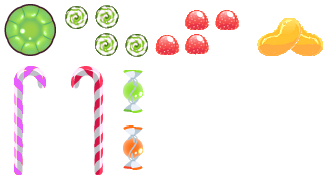
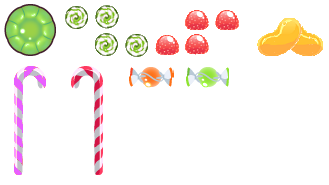
controlll

Changed region(s): [[0.3647, 0.3514, 0.6991, 0.6216], [0.3647, 0.6757, 0.4559, 0.9189]]

diff --git a/js/candyrain.js b/js/candyrain.js
@@ -21,8 +21,10 @@ var blockStage;
 var pointStage;
 var blockSpeed;
 var score = 0;
+var level;
 var points;
-
+var levelText;
+var eventWhich=0;
 
 // Initialization
 $(document).ready(function() {
@@ -34,7 +36,7 @@ $(document).ready(function() {
 	createPointStage();
 	
 	blockSpeed = 24;
-	
+	level = 1;
 	setNextBlock();
 	board.setFallingBlock(nextBlock);
 	setNextBlock();
@@ -53,10 +55,10 @@ var createBlockStage = function(){
 	blockStage.x = 300;
 	blockStage.y = 200;
 	var background = new createjs.Shape();
-	background.graphics.beginFill("#FFDE4D").drawRect(0, 0, 100, 140);
+	background.graphics.beginFill("#FFDE4D").drawRect(0, 0, 150, 140);
 	blockStage.addChild(background);
 	
-	var text = new createjs.Text("Next Block", "20px Arial", "#ff7700");
+	var text = new createjs.Text("Next Candy", "20px Arial", "#ff7700");
 	blockStage.addChild(text);
 	stage.addChild(blockStage);
 };
@@ -66,20 +68,37 @@ var createPointStage = function() {
 	pointStage.x = 300;
 	pointStage.y = 400;
 	var background = new createjs.Shape();
-	background.graphics.beginFill("#FFDE4D").drawRect(0, 0, 100, 140);
+	background.graphics.beginFill("#FFDE4D").drawRect(0, 0, 150, 140);
 	pointStage.addChild(background);
 	var text = new createjs.Text("Points", "20px Times New Roman", "#ff7700");
 	points = new createjs.Text("0", "20px Times New Roman", "#ff7700");
 	points.y = 30;
 	pointStage.addChild(points);
 	pointStage.addChild(text);
+	
+	//level:
+	var ltext = new createjs.Text("Level", "20px Times New Roman", "#ff7700");
+	ltext.y = 60;
+	levelText = new createjs.Text("1", "20px Times New Roman", "#ff7700");
+	levelText.y = 90;
+	pointStage.addChild(levelText);
+	pointStage.addChild(ltext);
+	
 	stage.addChild(pointStage);
 }
 
 
 // Handle input
 var handleInput = function(event) {
-	switch(event.which) {
+	eventWhich = event.which;
+};
+
+// Update function
+var update = function(event) {
+	if(createjs.Ticker.getTicks() % blockSpeed == 0){
+		moveDown();
+	}
+	switch(eventWhich) {
 		case KEYCODE_LEFTARROW:
 			moveLeft();
 			break;
@@ -101,13 +120,7 @@ var handleInput = function(event) {
 			rotate(false);
 			break;
 	}
-};
-
-// Update function
-var update = function(event) {
-	if(createjs.Ticker.getTicks() % blockSpeed == 0){
-		moveDown();
-	}
+	eventWhich = 0;
 	stage.update();
 };
 
@@ -156,8 +169,9 @@ var moveDown = function() {
 		
 		// if collided move back
 		board.fallingBlock.move(0, -cr.Board.cellSize);
-	}
-	
+		
+	}	
+		
 	// hit ground or other blocks so place the falling block and set the next one to fall
 	board.placeFallingBlock();
 	//score += board.checkLines();
@@ -175,10 +189,17 @@ var moveDown = function() {
 			score += 1200;
 			break;
 	}
+	if(score > (5000 * level)) {
+		level++;
+		levelText.text = level;
+		blockSpeed = Math.floor(Math.max((blockSpeed - (blockSpeed/12)), 8));
+		console.log(blockSpeed);
+	}
 	
 	board.setFallingBlock(nextBlock);
 	setNextBlock();
 	points.text = "" + score;
+
 };
 
 // Move the falling block to the left

diff --git a/js/Blocks.js b/js/Blocks.js
@@ -12,16 +12,16 @@ var IBlock = function() {
 	
 	var image2 = new createjs.Bitmap();
 	image2.image = cr.Board.blockImages;
-	image2.sourceRect = new createjs.Rectangle(120,90,30,30);
+	image2.sourceRect = new createjs.Rectangle(150,60,30,30);
 
 	
 	var image3 = new createjs.Bitmap();
 	image3.image = cr.Board.blockImages;
-	image3.sourceRect = new createjs.Rectangle(120,120,30,30);
+	image3.sourceRect = new createjs.Rectangle(180,60,30,30);
 	
 	var image4 = new createjs.Bitmap();
 	image4.image = cr.Board.blockImages;
-	image4.sourceRect = new createjs.Rectangle(120,150,30,30);
+	image4.sourceRect = new createjs.Rectangle(210,60,30,30);
 
 	
 	var arg1 = {
@@ -30,18 +30,18 @@ var IBlock = function() {
 		image: image1
 		}
 	var arg2 = {
-		x: 0,
-		y: 1,
+		x: 1,
+		y: 0,
 		image: image2
 		}
 	var arg3 = {
-		x: 0,
-		y: 2,
+		x: 2,
+		y: 0,
 		image: image3
 		}
 	var arg4 = {
-		x: 0,
-		y: 3,
+		x: 3,
+		y: 0,
 		image: image4
 		}
 	this.initialize([arg2, arg1, arg3, arg4]);

diff --git a/index.html b/index.html
@@ -12,11 +12,13 @@
 	<script src="js/Line.js"></script>
 	<script src="js/candyrain.js"></script>
 </head>
-<body>
-
-	<canvas id="CandyRainCanvas" width="400" height="600">
+<body> 
+	<div>
+	<div id="banner">Candy Rain</div><br/>
+	<canvas id="CandyRainCanvas" width="450" height="600">
 		Your browser is too old, time to upgrade.
 	</canvas>
+	<div>
 
 </body>
 </html>

diff --git a/candyrain.css b/candyrain.css
@@ -6,3 +6,8 @@
 body {
 	background-image: url(http://i.imgur.com/l7HRnia.jpg);
 }
+
+#banner {
+	font-size: 200%;
+	color: yellow;
+}
